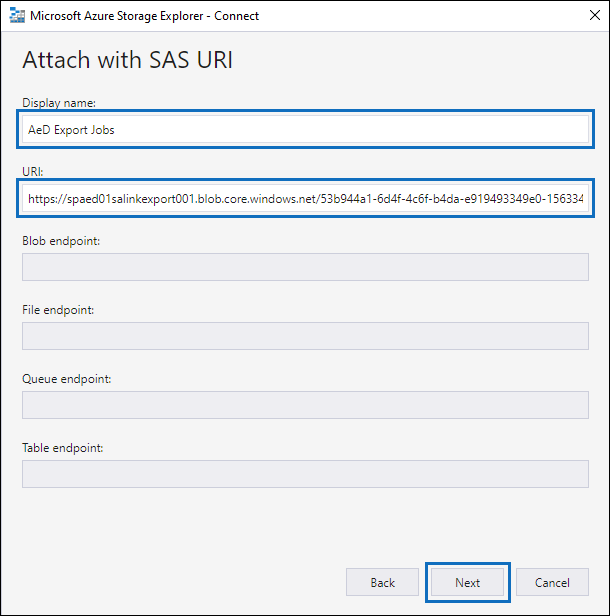
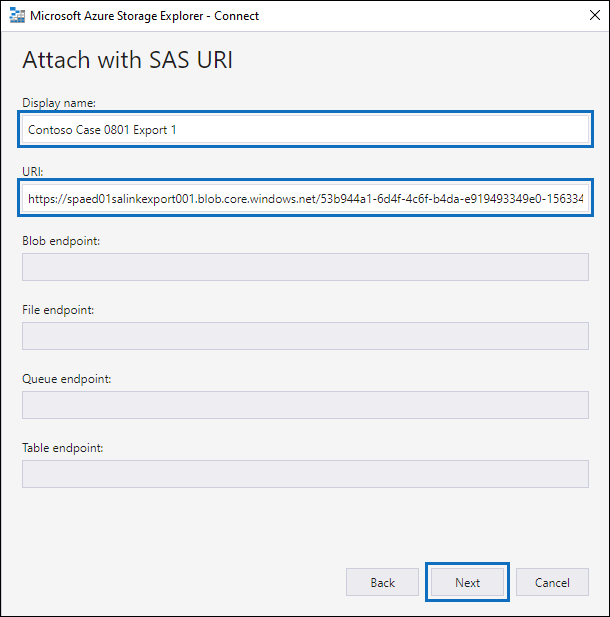
in progress

diff --git a/SecurityCompliance/compliance20/download-export-jobs.md b/SecurityCompliance/compliance20/download-export-jobs.md
@@ -21,26 +21,23 @@ description: "Install and use the Azure Storage Explorer to download documents t
 
 When you export documents from a review set in an Advanced eDiscovery case, the documents are uploaded to a Microsoft-provided Azure Storage location or to an Azure Storage location managed by your organization. The type of Azure Storage location used depends on which option was selected when the documents were exported. 
 
-This article provides instructions for using the Azure Storage Explorer to connect to an Azure Storage location to browse and download the exported documents. 
-
-All exported data is added to a Microsoft Azure blob. This provides multiple options to handle the data downstream. There are several ways to access an Azure blob. One method is to use Azure Storage Explorer. This method supports simple connection, browsing and downloading. For more information, visit <https://docs.microsoft.com/en-us/azure/storage/blobs/storage-quickstart-blobs-storage-explorer>
-
+This article provides instructions for how to use the Microsoft Azure Storage Explorer to connect to an Azure Storage location to browse and download the exported documents. For more information about Azure Storage Explorer, see [Quickstart: Use Azure Storage Explorer](https://docs.microsoft.com/en-us/azure/storage/blobs/storage-quickstart-blobs-storage-explorer).
 
 ## Step 1: Install the Azure Storage Explorer
 
-The first step is to download and install the Microsoft Azure Storage Explorer. For instructions, see [Microsoft Azure Storage Explorer tool](https://go.microsoft.com/fwlink/p/?LinkId=544842). You use this tool to connect to and download the exported documents in Step 3.
+The first step is to download and install the Azure Storage Explorer. For instructions, see [Azure Storage Explorer tool](https://go.microsoft.com/fwlink/p/?LinkId=544842). You use this tool to connect to and download the exported documents in Step 3.
 
 ## Step 2: Obtain the SAS URL from the export job
 
-The next step is to obtain the shared access signature (SAS) URL that was generated when you created an export job to [export documents from a review set](export-documents-from-review-set.md). You can copy the SAS URL for documents that were uploaded to a Microsoft-provided Azure Storage location or an Azure Storage location managed by your organization. In either case, you use the SAS URL to connect to the Azure Storage location in Step 3.
+The next step is to obtain the shared access signature (SAS) URL that's generated when you created the export job to [export documents from a review set](export-documents-from-review-set.md). You can copy the SAS URL for documents that are uploaded to a Microsoft-provided Azure Storage location or an Azure Storage location managed by your organization. In either case, you use the SAS URL to connect to the Azure Storage location in Step 3.
 
 1. On the **Advanced eDiscovery** page, go to the case, and then click the **Exports** tab.
 
 2. On the **Exports** tab, click the export job that you want to download.
 
-3. On the flyout page, under **Locations**, copy the SAS URL that is displayed. If necessary, you can save it to a file so you can access it in Step 3.
+3. On the flyout page, under **Locations**, copy the SAS URL that's displayed. If necessary, you can save it to a file so you can access it in Step 3.
  
-   ![Copy the SAS URL that is displayed under Locations](../media/eDiscoExportJob.png)
+   ![Copy the SAS URL displayed under Locations](../media/eDiscoExportJob.png)
 
 ## Step 3: Connect to the Azure Storage location
 
@@ -56,9 +53,11 @@ The final step is to use the Azure Storage Explorer and the SAS URL to connect t
 
     ![Click Use a shared access signature (SAS) URI and then click Next](../media/AzureStorageConnect2.png)
 
-4.  On the **Attach with SAS URI** page, click in the **URI** box and then paste the SAS URL that you obtained in Step 2. Notice that a portion of the SAS URL is displayed in the **Display name** box. This will be used as the display name of the container that's create under the **Storage accounts** after you connect to the storage location.  You can keep the default display name or change it. 
+4.  On the **Attach with SAS URI** page, click in the URI box, and then paste the SAS URL that you obtained in Step 2. 
 
     ![Paste the SAS URL in the URI box](../media/AzureStorageConnect3.png)
+
+    Notice that a portion of the SAS URL is displayed in the **Display name** box. This will be used as the display name of the container that's created under the **Storage accounts** after you connect to the storage location. This name consists of the ID of the Advanced eDiscovery case is from and a unique identifier. You can keep the default display name or change it. If you change it, the display name must be unique.
 
 5.  Click **Next**.
 
@@ -66,14 +65,32 @@ The final step is to use the Azure Storage Explorer and the SAS URL to connect t
    
     ![Click Connect on the Connection summary page to connect to the Azure Storage location](../media/AzureStorageConnect4.png)
 
-6. On the **Connection summary** page, review the connection information, and then click **Connect** . 
+6. On the **Connection summary** page, review the connection information, and then click **Connect**. 
 
-    The **Blob containers** node (under **Storage Accounts** > **(Attached Containers)** \> is opened. It contains a container named with the display name from step 4. This container contains a folder for each export job that you've created. These folders are named with an ID that corresponds to the ID of the export job. You can find these export IDs (and the export name) under **Support information** on the flyout page for each for each **Preparing data for export** job listed on the **Jobs** tab.
+    The **Blob containers** node (under **Storage Accounts** > **(Attached Containers)** \> is opened. 
 
+    ![](../media/AzureStorageConnect5.png)
 
+    It contains a container named with the display name from step 4. This container contains a folder for each export job that you've created. These folders are named with an ID that corresponds to the ID of the export job. You can find these export IDs (and the name of the export) under **Support information** on the flyout page for each **Preparing data for export** job listed on the **Jobs** tab.
 
 7. Double-click the export job folder to open it.
 
-This will add the export as an object in Storage Accounts/SAS-Attached Services/Blob Containers. You will be able to explore the export and download all or portions of the export.
+   A list of folders and export reports is displayed.
+   
+    ![The export folder contains exported files and export reports](../media/AzureStorageConnect6.png)
 
-![](../media/AzureStorageConnect5.png)
+   The export job folder contains the following items. The actual items in the export folder are determined by the export options configured when the export job was created. For more information, see [Export documents from a review set](export-documents-from-review-set.md).
+
+    - Export_load_file.csv: This CSV file is a detail export report that contains information about each exported document. The file consists of a column for each metadata property for a document. For a list and description of the metadata that's included in this report, see the **Exported field name** column in the table in [Document metadata fields in Advanced eDiscovery](document-metadata-fields.md).
+    
+    - Summary.txt: A text file that contains a summary of the export including export statistics.
+    
+    - Extracted_text_files: This folder contains a text file version of each exported document.
+     
+    - NativeFiles: This folder contains a native file version of each exported document.
+    
+    - Error_files: This folder includes the following items when the export job contains any error files: 
+        
+      - ExtractionError.csv: This CSV file contains the available metadata for files that weren't properly extracted from their parent item.
+        
+      - ProcessingError: This folder contains documents with processing errors. This content is at an item level, which means if an attachment had a processing error, the document that contains the attachment will also be included in this folder.

diff --git a/SecurityCompliance/unlimited-archiving.md b/SecurityCompliance/unlimited-archiving.md
@@ -19,7 +19,9 @@ description: "Learn about auto-expanding archiving in Office 365, which provides
 
 # Overview of unlimited archiving in Office 365
 
-In Office 365, archive mailboxes provide users with additional mailbox storage space. After a user's archive mailbox is enabled, up to 100 GB of additional storage is available. When the 100 GB storage quota is reached, organizations had to contact Microsoft to request additional storage space for an archive mailbox. That's no longer the case. The new unlimited archiving feature in Office 365 (called *auto-expanding archiving*) provides an unlimited amount of storage in archive mailboxes. Now, when the storage quota in the archive mailbox is reached, Office 365 automatically increases the size of the archive, which means that users won't run out of mailbox storage space and administrators won't have to request additional storage for archive mailboxes.
+In Office 365, archive mailboxes provide users with additional mailbox storage space. After a user's archive mailbox is enabled, up to 100 GB of additional storage is available. In the past, when the 100 GB storage quota was reached, organizations had to contact Microsoft to request additional storage space for an archive mailbox. That's no longer the case.
+
+The unlimited archiving feature in Office 365 (called *auto-expanding archiving*) provides an unlimited amount of storage in archive mailboxes. Now, when the storage quota in the archive mailbox is reached, Office 365 automatically increases the size of the archive, which means that users won't run out of mailbox storage space and administrators won't have to request additional storage for archive mailboxes.
   
 For step-by-step instructions for turning on auto-expanding archiving, see [Enable unlimited archiving in Office 365](enable-unlimited-archiving.md).
   
